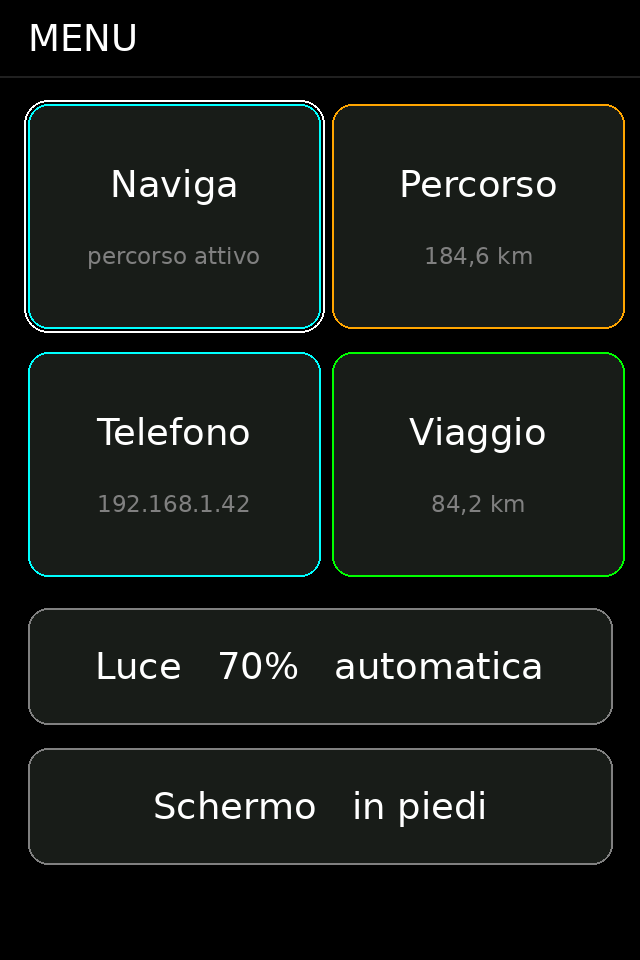
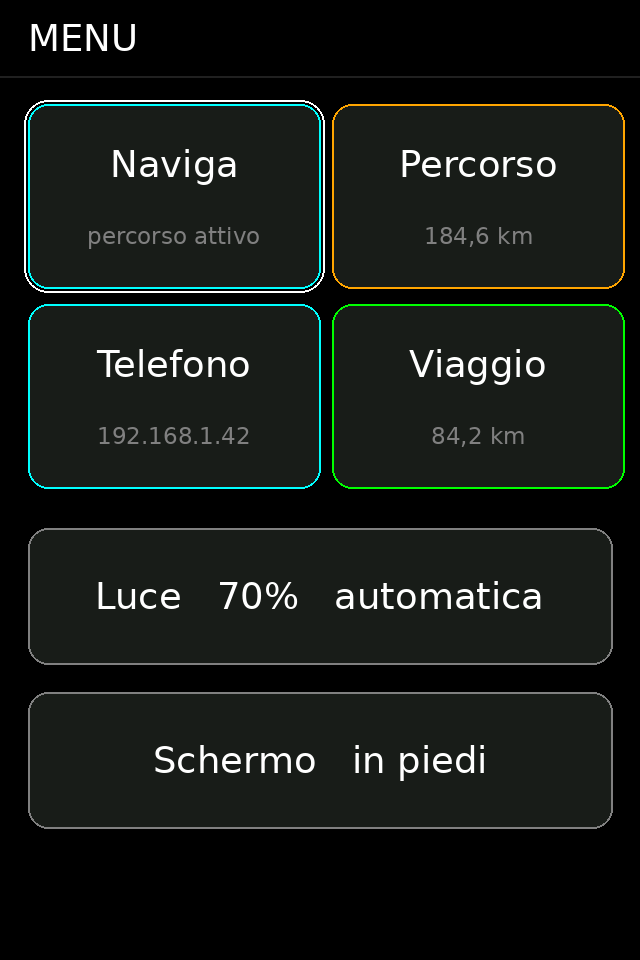
fix: il tocco usava la taratura dell'altro formato
Il quinto numero della taratura e' la rotazione per cui e' stata fatta:
TFT_eSPI lo usa per sapere quali assi scambiare. Caricandola senza
controllarlo, con il pannello in piedi si finiva per usare la taratura
fatta da sdraiato, e il dito andava a tutt'altra parte: in alto non
succedeva niente (sembra che il tocco sia rotto), in basso si apriva un
riquadro invece della barra sotto (sembra che i riquadri coprano le
barre). Un solo difetto, due sintomi.

Ora una taratura si usa solo per la sua rotazione, la finestra per
tararla passa da 15 a 60 secondi, la schermata dice in che formato sei
e ricorda che il tasto tenuto premuto 3 secondi la fa ripartire. In
avvio il log stampa rotazione e misure.

Nel menu in piedi i riquadri scendono da 146x112 a 146x92 e le due
barre salgono a 292x68, cosi' fra un tasto e l'altro resta margine: col
guanto non si centra il pixel. Il banco layouttest adesso pretende
almeno 5 px liberi fra i tasti del menu, non solo che non si tocchino.

Claude-Session: https://claude.ai/code/session_019noS5jpYbHfBCHSzoYtia6

diff --git a/src/touch_ui.h b/src/touch_ui.h
@@ -159,10 +159,22 @@ static void touchRunCalibration() {
   }
 }
 
+// Il quinto numero della taratura e' la rotazione per cui e' stata fatta:
+// TFT_eSPI lo usa per sapere quali assi scambiare. Una taratura fatta da
+// sdraiato, usata con il pannello in piedi, non "sbaglia un po'": manda il
+// dito da tutt'altra parte. In alto non succede niente, in basso ti apre il
+// riquadro sbagliato, e sembra che il tocco sia rotto.
+static bool touchCalGiusta() {
+  if (touchCal[4] == uiRot) return true;
+  Serial.printf("[TOUCH] taratura fatta per la rotazione %u, adesso siamo alla %u: "
+                "si butta e si rifa'\r\n", touchCal[4], uiRot);
+  return false;
+}
+
 static void touchBegin() {
   touchProbe();
 
-  if (touchLoadCal() && touchCalSensata()) {
+  if (touchLoadCal() && touchCalSensata() && touchCalGiusta()) {
     tft.setTouch(touchCal);
     touchReady = true;
     Serial.printf("[TOUCH] taratura caricata: %u %u %u %u (rot %u)\r\n",
@@ -178,12 +190,18 @@ static void touchBegin() {
   tft.drawString("Taratura del tocco", SW / 2, SH / 3, 4);
   tft.setTextColor(COL_LABEL, COL_BG);
   tft.drawString("tocca lo schermo per cominciare", SW / 2, SH / 3 + 40, 2);
+  tft.drawString(uiVert ? "schermo in piedi" : "schermo sdraiato", SW / 2, SH / 3 + 70, 2);
+  tft.setTextColor(COL_WARN, COL_BG);
+  tft.drawString("oppure tieni premuto il tasto 3 secondi", SW / 2, SH - 40, 2);
 
-  if (touchAttendiDito(15000)) {
+  // Un minuto invece di quindici secondi: cambiando formato la taratura va
+  // rifatta per forza, e perdere la finestra vuol dire ritrovarsi senza tocco
+  // senza capire perche'.
+  if (touchAttendiDito(60000)) {
     touchRunCalibration();
   } else {
     touchReady = false;
-    Serial.printf("[TOUCH] nessuna pressione in 15 secondi (soglia %u, riposo %u): il "
+    Serial.printf("[TOUCH] nessuna pressione in 60 secondi (soglia %u, riposo %u): il "
                   "controller risponde ma il pannello non sente il dito. Guarda il "
                   "connettore del vetro touch sulla basetta, non i fili verso l'ESP32. "
                   "Il tracker prosegue senza tocco.\r\n",

diff --git a/src/layout.h b/src/layout.h
@@ -159,10 +159,13 @@ static void layoutVerticale() {
   NAV_SPD_X = 160; NAV_SPD_Y = 448; NAV_SPD_W = 300;
   NAV_MARK_X = 20; NAV_HINT = BAR_HINT;
 
-  const Rect mb[4] = {{14,52,146,112},{166,52,146,112},{14,176,146,112},{166,176,146,112}};
+  // Riquadri piu' bassi e barre piu' alte: in piedi lo spazio in verticale
+  // c'e', e quello che serve e' che fra una cosa e l'altra ci sia margine -
+  // col guanto non si centra il pixel.
+  const Rect mb[4] = {{14,52,146,92},{166,52,146,92},{14,152,146,92},{166,152,146,92}};
   for (uint8_t i = 0; i < 4; i++) MENU_BTN[i] = mb[i];
-  MENU_LUCE    = (Rect){14, 304, 292, 58};
-  MENU_SCHERMO = (Rect){14, 374, 292, 58};
+  MENU_LUCE    = (Rect){14, 264, 292, 68};
+  MENU_SCHERMO = (Rect){14, 346, 292, 68};
   LUCE_BTN[0] = (Rect){14, 60, 146, 96}; LUCE_BTN[1] = (Rect){166, 60, 146, 96};
   LUCE_PCT_Y  = 192;
   for (uint8_t i = 0; i < 3; i++) MODO_BTN[i] = (Rect){14, (int16_t)(240 + i * 56), 292, 48};

diff --git a/src/display_ui.h b/src/display_ui.h
@@ -1292,6 +1292,8 @@ static void displayBegin() {
   tft.init();
   layoutCompute(layoutLoadRot());
   tft.setRotation(uiRot);
+  Serial.printf("[DISPLAY] rotazione %u, schermo %s, %d x %d\r\n",
+                uiRot, uiVert ? "in piedi" : "sdraiato", SW, SH);
   drawSplash();
 
 #if ENABLE_TOUCH

diff --git a/README.md b/README.md
@@ -592,6 +592,18 @@ numeri della taratura dicono dove finisce il dito rispetto ai pixel, e girando
 il pannello i pixel si spostano. Ogni formato si ricorda la sua, quindi lo fai
 una volta per ciascuno e poi puoi passare dall'uno all'altro quando vuoi.
 
+> **Se il tocco non risponde**, quasi sempre e' la taratura che manca o e'
+> quella dell'altro formato. Il tracker se ne accorge da solo - il quinto
+> numero della taratura dice per quale rotazione e' stata fatta, e se non
+> corrisponde la butta - ma se ti trovi bloccato: **tieni premuto il tasto per
+> 3 secondi** e la taratura riparte. Il tasto funziona anche quando il tocco e'
+> morto, ed e' la via d'uscita per qualsiasi pasticcio del touch.
+>
+> Sul log seriale si legge cosa e' successo:
+> `[DISPLAY] rotazione 0, schermo in piedi, 320 x 480` dice in che formato sei,
+> e poi `[TOUCH] taratura caricata ...` oppure
+> `[TOUCH] taratura fatta per la rotazione 1, adesso siamo alla 0`.
+
 In `config.h` i due numeri `DISPLAY_ROTATION` (sdraiato: 1 o 3) e
 `DISPLAY_ROTATION_VERT` (in piedi: 0 o 2) dicono solo da che parte sta il cavo:
 se l'immagine esce capovolta, scambia 1 con 3 oppure 0 con 2.
